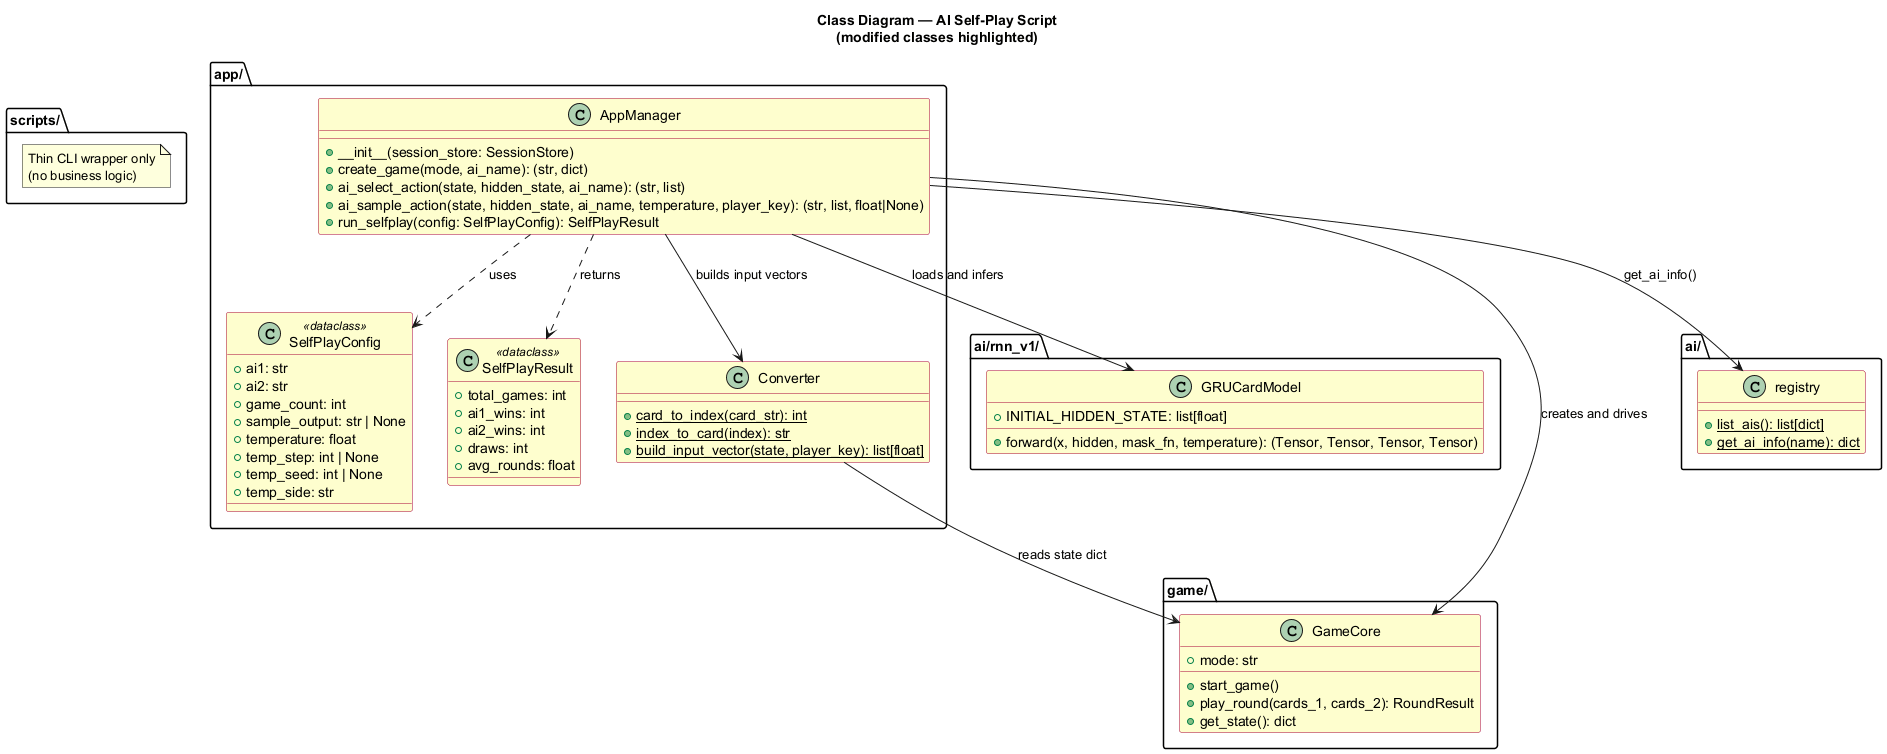
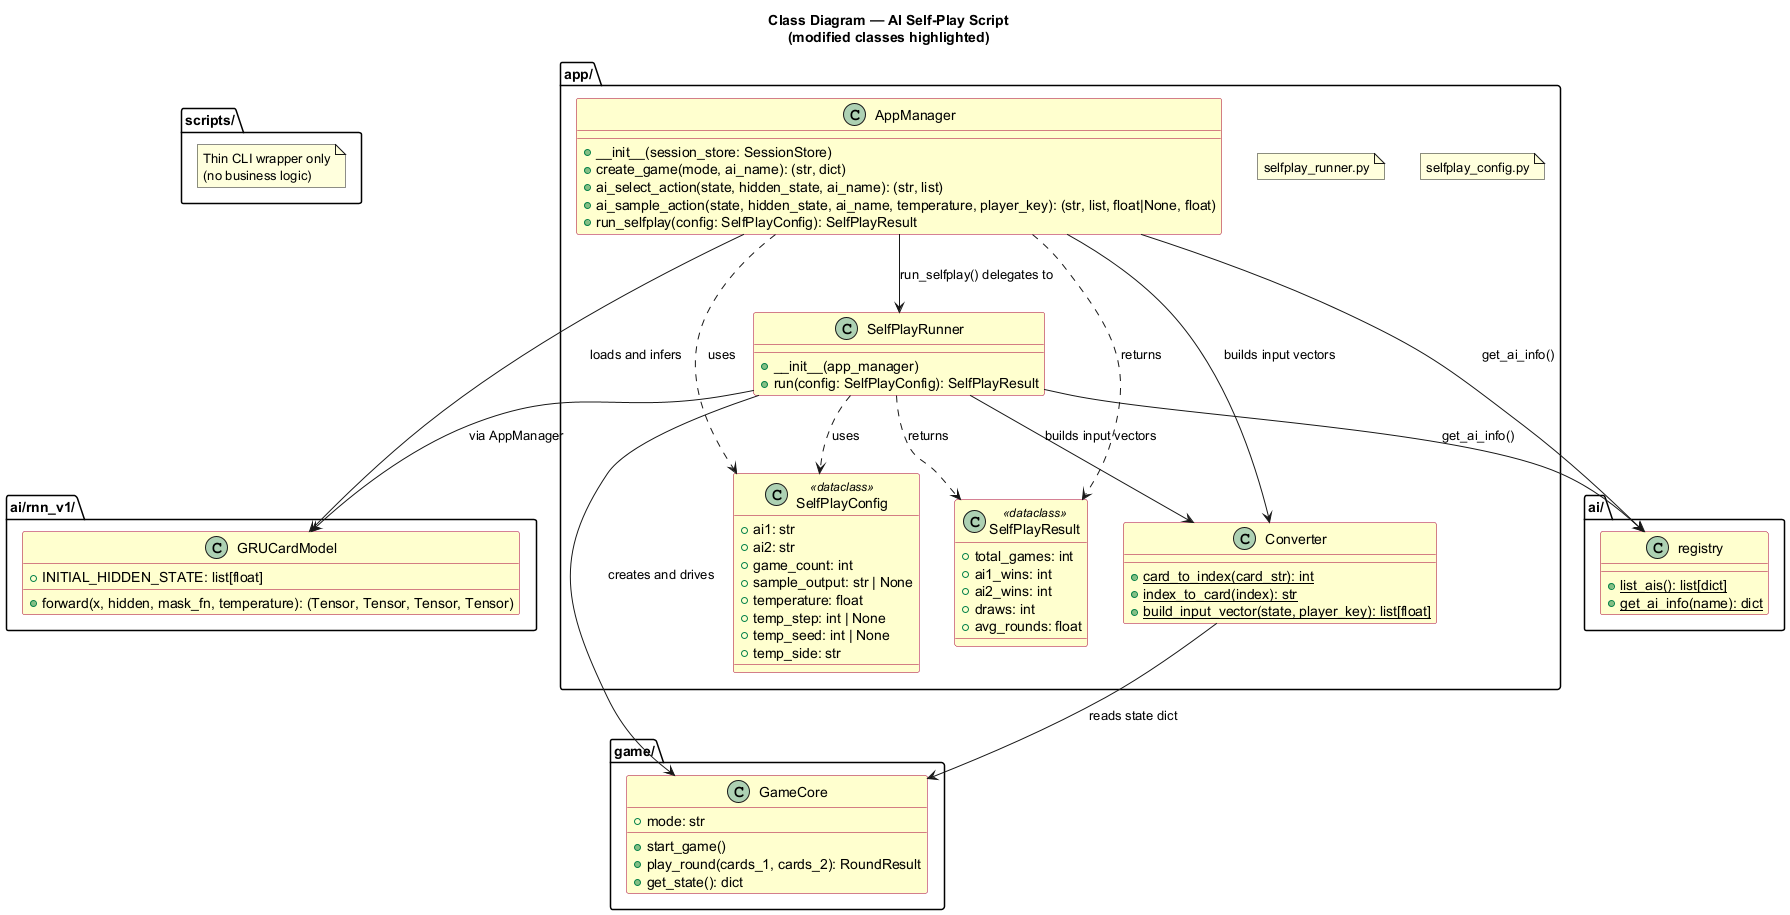
docs: update design/5 to reflect refactored file structure
- architecture.md: add selfplay_config.py and selfplay_runner.py modules

- interfaces.md: add SelfPlayRunner section, fix file locations, renumber

- class_diagram.puml: add SelfPlayRunner class, show delegation from AppManager

- selfplay_flow.puml: show SelfPlayRunner as loop participant instead of AppManager

- Regenerate PNGs from updated puml files

diff --git a/design/5/main_docs/interfaces.md b/design/5/main_docs/interfaces.md
@@ -4,9 +4,9 @@ Public interfaces only. Private methods omitted per design rule.
 
 ---
 
-## 1. `app/app_manager.py` — SelfPlayConfig
+## 1. `app/selfplay_config.py` — SelfPlayConfig
 
-Immutable configuration value object. Defined in `app_manager.py` alongside `AppManager`.
+Immutable configuration value object. Defined in `selfplay_config.py` (extracted from `app_manager.py` to respect 500-line file limit).
 
 ```
 @dataclass(frozen=True)
@@ -36,7 +36,7 @@ class SelfPlayConfig:
 
 ---
 
-## 2. `app/app_manager.py` — SelfPlayResult
+## 2. `app/selfplay_config.py` — SelfPlayResult
 
 Aggregate statistics returned after all games complete.
 
@@ -64,7 +64,7 @@ class SelfPlayResult:
 
 ## 3. `app/app_manager.py` — AppManager (Modified)
 
-Existing `ai_select_action()` updated for 4-tuple return. New methods `ai_sample_action()` and `run_selfplay()` added.
+Existing `ai_select_action()` updated for 4-tuple return. New method `ai_sample_action()` added. `run_selfplay()` is a thin wrapper delegating to `SelfPlayRunner` (see §4).
 
 ```
 class AppManager:
@@ -117,23 +117,13 @@ class AppManager:
             log_prob is float if temperature > 0, else None.
         """
 
-    # --- New: self-play game loop ---
+    # --- New: self-play game loop (thin delegation wrapper) ---
 
     def run_selfplay(self, config: SelfPlayConfig) -> SelfPlayResult:
-        """Execute all self-play games and return aggregate results.
+        """Execute all self-play games via SelfPlayRunner.
 
-        Encapsulates the entire self-play loop as business logic:
-        1. Validate ai1/ai2 exist in registry
-        2. For each game:
-           a. Create GameCore and start_game()
-           b. Loop rounds: get AI1 action -> get AI2 action -> play_round()
-           c. Apply temp_step/temp_side rules for sampling vs greedy
-           d. Record PPO sample per step if config.sample_output is set
-           e. At game end, assign reward to all recorded steps
-           f. Write samples to file (if enabled)
-           g. Print game summary line
-        3. Print aggregate statistics
-        4. Return SelfPlayResult
+        Thin wrapper that delegates to SelfPlayRunner.run().
+        The actual game loop logic lives in selfplay_runner.py.
 
         Args:
             config: SelfPlayConfig with all run parameters.
@@ -143,7 +133,7 @@ class AppManager:
         """
 ```
 
-### Progress Output Format (handled by `run_selfplay()`)
+### Progress Output Format (handled by `SelfPlayRunner`)
 
 Per game:
 ```
@@ -163,7 +153,44 @@ Samples saved to: data/samples.jsonl
 
 ---
 
-## 4. `scripts/selfplay.py` — CLI Entry Point
+## 4. `app/selfplay_runner.py` — SelfPlayRunner
+
+Encapsulates the self-play game loop (per design D1). Created and invoked
+by `AppManager.run_selfplay()`.
+
+```
+class SelfPlayRunner:
+    """Execute self-play games and collect results."""
+
+    def __init__(self, app_manager: AppManager):
+        """Create a runner backed by the given AppManager."""
+
+    def run(self, config: SelfPlayConfig) -> SelfPlayResult:
+        """Execute all self-play games and return aggregate results.
+
+        1. Validate ai1/ai2 exist in registry
+        2. For each game:
+           a. Create GameCore and start_game()
+           b. Loop rounds: query both AIs via AppManager.ai_sample_action()
+           c. Apply temp_step/temp_side rules for sampling vs greedy
+           d. Record PPO sample per step if config.sample_output is set
+           e. At game end, assign reward to all recorded steps
+           f. Write samples to file (if enabled)
+           g. Print game summary line
+        3. Print aggregate statistics
+        4. Return SelfPlayResult
+
+        Args:
+            config: SelfPlayConfig with all run parameters.
+
+        Returns:
+            SelfPlayResult with win/loss/draw counts and avg rounds.
+        """
+```
+
+---
+
+## 5. `scripts/selfplay.py` — CLI Entry Point
 
 Thin wrapper. No business logic — only argument parsing and delegation.
 
@@ -176,7 +203,8 @@ Usage:
 """
 
 import argparse
-from src.backend.app.app_manager import AppManager, SelfPlayConfig
+from src.backend.app.app_manager import AppManager
+from src.backend.app.selfplay_config import SelfPlayConfig
 from src.backend.game.session_store import SessionStore
 
 # CLI argument parsing, then:
@@ -187,7 +215,7 @@ from src.backend.game.session_store import SessionStore
 
 ---
 
-## 5. `app/converter.py` — Converter (Modified)
+## 6. `app/converter.py` — Converter (Modified)
 
 Adds `player_key` parameter to `build_input_vector()`.
 
@@ -215,7 +243,7 @@ class Converter:
 
 ---
 
-## 6. `ai/rnn_v1/model.py` — GRUCardModel (Modified)
+## 7. `ai/rnn_v1/model.py` — GRUCardModel (Modified)
 
 `forward()` adds `temperature` parameter and returns `log_probs` as 4th element.
 
@@ -253,6 +281,6 @@ class GRUCardModel(nn.Module):
 
 ---
 
-## 7. `game/` — Unchanged
+## 8. `game/` — Unchanged
 
 No changes to `game/` package.

diff --git a/design/5/main_docs/architecture.md b/design/5/main_docs/architecture.md
@@ -11,8 +11,10 @@ src/backend/
 ├── scripts/
 │   └── selfplay.py            # NEW — thin CLI wrapper (argparse only, no business logic)
 ├── app/
-│   ├── app_manager.py         # MODIFIED — run_selfplay(), ai_sample_action() added
-│   └── converter.py           # MODIFIED — build_input_vector(player_key)
+│   ├── app_manager.py         # MODIFIED — ai_sample_action() added; run_selfplay() thin wrapper
+│   ├── converter.py           # MODIFIED — build_input_vector(player_key)
+│   ├── selfplay_config.py     # NEW — SelfPlayConfig, SelfPlayResult dataclasses
+│   └── selfplay_runner.py     # NEW — SelfPlayRunner game loop, PPO sample I/O, logging
 ├── ai/
 │   └── rnn_v1/
 │       └── model.py           # MODIFIED — forward() adds temperature, returns log_probs
@@ -24,8 +26,10 @@ src/backend/
 | Module | Responsibility | Change |
 |--------|---------------|--------|
 | `scripts/selfplay.py` | CLI argument parsing; creates AppManager; calls `app.run_selfplay(config)` | NEW |
-| `app/app_manager.py` | Self-play game loop, AI action selection, PPO sample I/O, progress logging | MODIFIED |
+| `app/app_manager.py` | AI action selection (greedy + sampling), model lifecycle; `run_selfplay()` delegates to SelfPlayRunner | MODIFIED |
 | `app/converter.py` | `build_input_vector()` supports player perspective | MODIFIED |
+| `app/selfplay_config.py` | `SelfPlayConfig` (frozen) and `SelfPlayResult` dataclasses | NEW |
+| `app/selfplay_runner.py` | Self-play game loop (creates GameCore, queries AIs, records PPO samples, prints progress/summary) | NEW |
 | `ai/rnn_v1/model.py` | `forward()` accepts temperature, returns `(probs, log_probs, value, new_hidden)` | MODIFIED |
 | `game/*` | Unchanged | — |
 
@@ -46,7 +50,7 @@ Refer to [class_diagram.puml](diagrams/class_diagram.puml).
 
 ## 5. Key Design Decisions
 
-**D1 — `AppManager` owns the self-play game loop.** `run_selfplay(config)` encapsulates the entire game loop: creates `GameCore` per game, iterates rounds, queries both AIs via `ai_sample_action()` / `ai_select_action()`, records PPO samples, prints progress, and returns aggregate results. The script is a thin CLI wrapper with zero business logic.
+**D1 — `SelfPlayRunner` encapsulates the game loop.** `AppManager.run_selfplay(config)` delegates to `SelfPlayRunner.run(config)`, which encapsulates the entire game loop: creates `GameCore` per game, iterates rounds, queries both AIs via `AppManager.ai_sample_action()` / `ai_select_action()`, records PPO samples, prints progress, and returns aggregate results. Split from `app_manager.py` to keep files under 500 lines. The script is a thin CLI wrapper with zero business logic.
 
 **D2 — Temperature sampling in `AppManager.ai_sample_action()`.** A new method that accepts `temperature` and `player_key`. When temperature > 0: samples from `softmax(logits/T)`. When temperature = 0: greedy argmax. Returns log_prob of the selected action (None for greedy).
 
@@ -68,7 +72,9 @@ Refer to [class_diagram.puml](diagrams/class_diagram.puml).
 | File | Change |
 |------|--------|
 | `scripts/selfplay.py` | NEW — thin CLI wrapper: parse args → `AppManager().run_selfplay(config)` |
-| `app/app_manager.py` | ADD `run_selfplay()`, `ai_sample_action()`. ADD `SelfPlayConfig`, `SelfPlayResult`. UPDATE `ai_select_action()` for 4-tuple return |
+| `app/app_manager.py` | ADD `ai_sample_action()`. UPDATE `ai_select_action()` for 4-tuple return. `run_selfplay()` → thin delegation wrapper |
+| `app/selfplay_config.py` | NEW — `SelfPlayConfig` (frozen dataclass with validation), `SelfPlayResult` dataclass |
+| `app/selfplay_runner.py` | NEW — `SelfPlayRunner` class: game loop, PPO sample recording, progress logging, summary output |
 | `app/converter.py` | ADD `player_key` parameter to `build_input_vector()` |
 | `ai/rnn_v1/model.py` | ADD `temperature` parameter to `forward()`. ADD `log_probs` to return tuple |
 | `game/*` | Unchanged |
